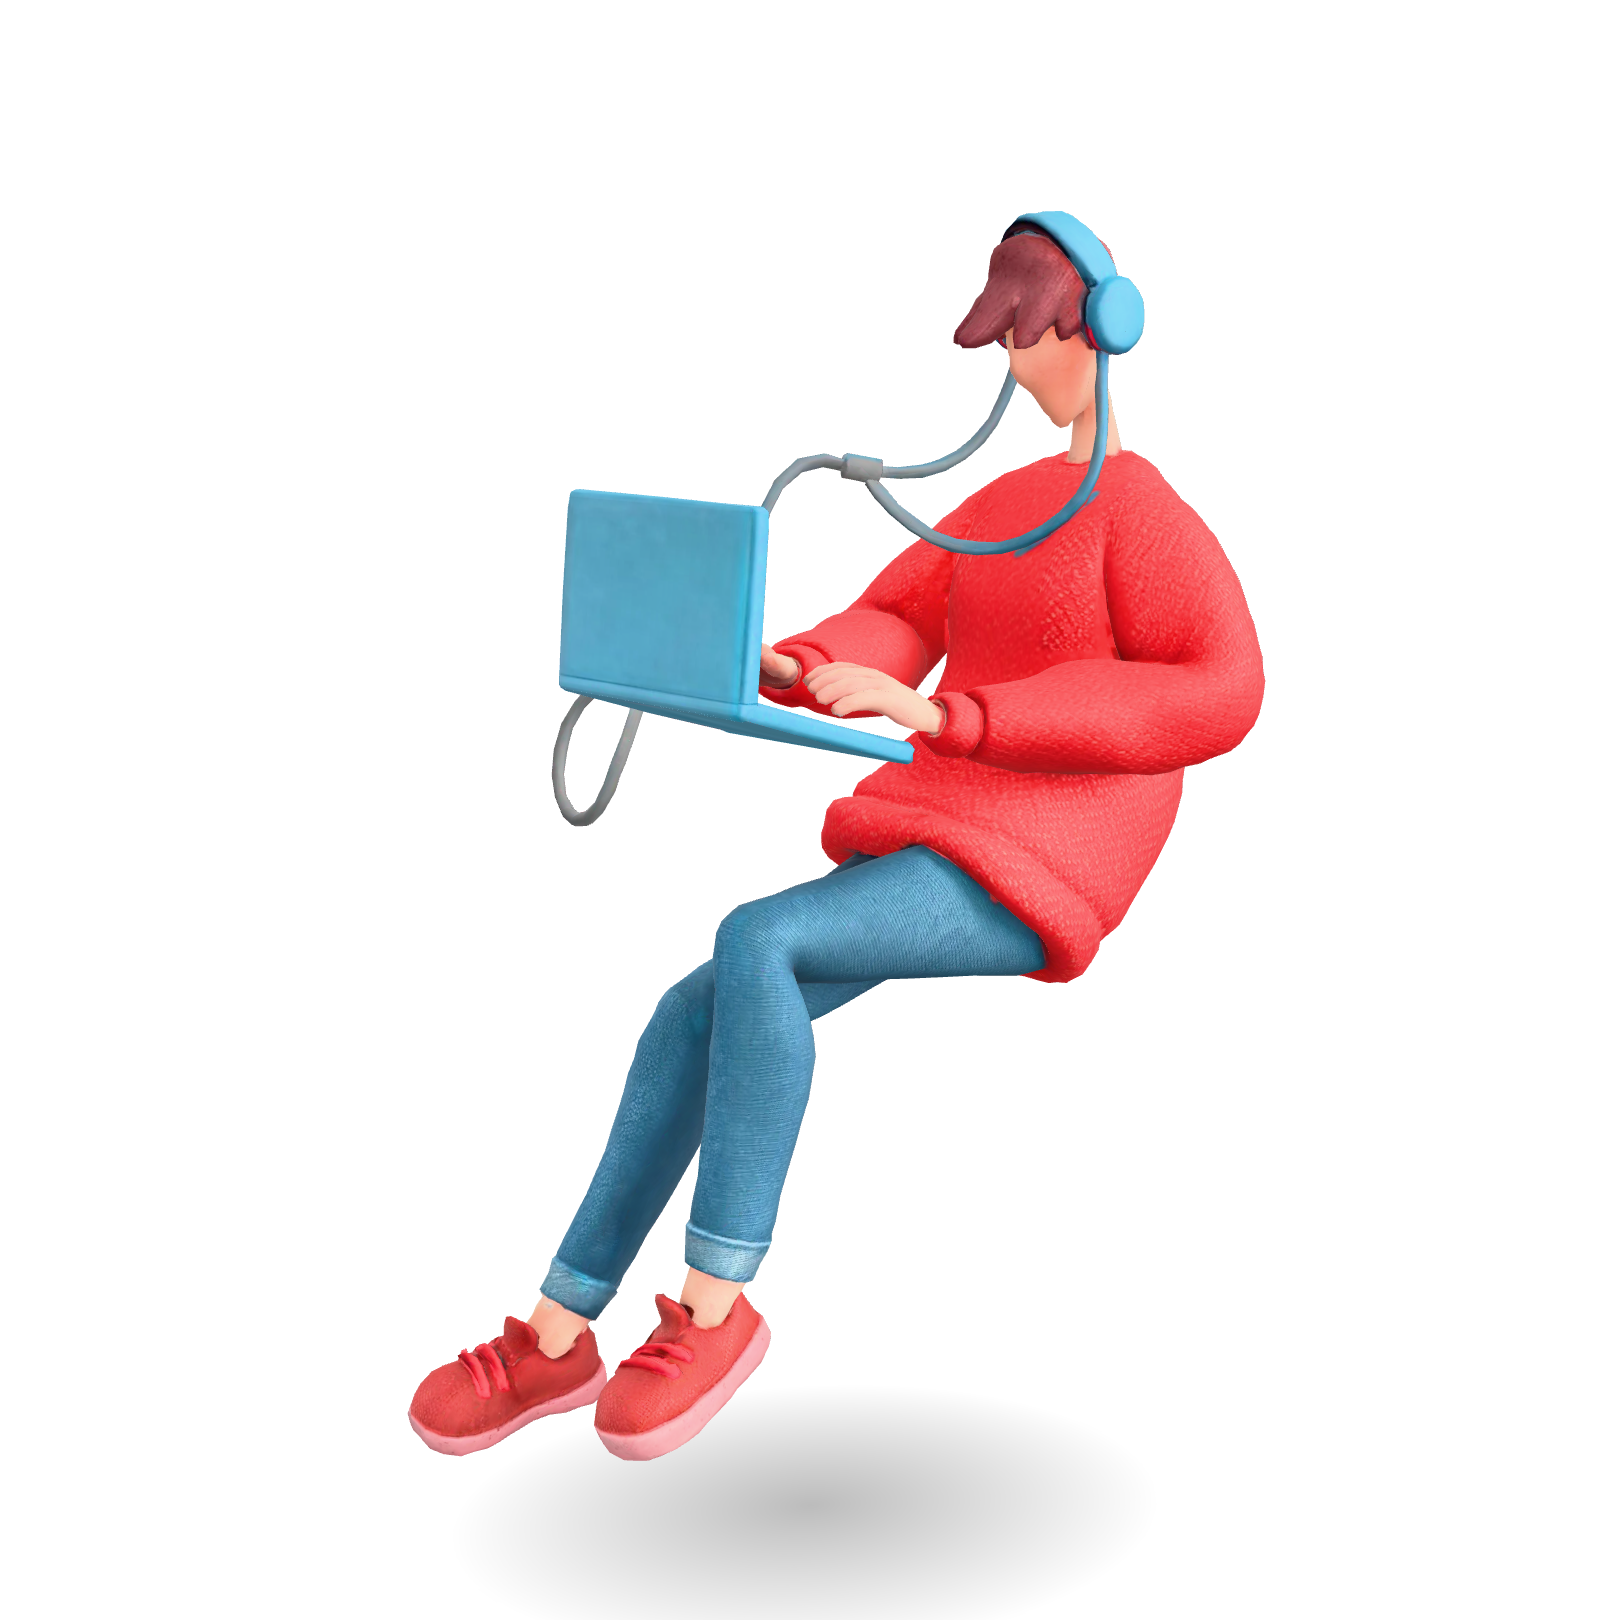
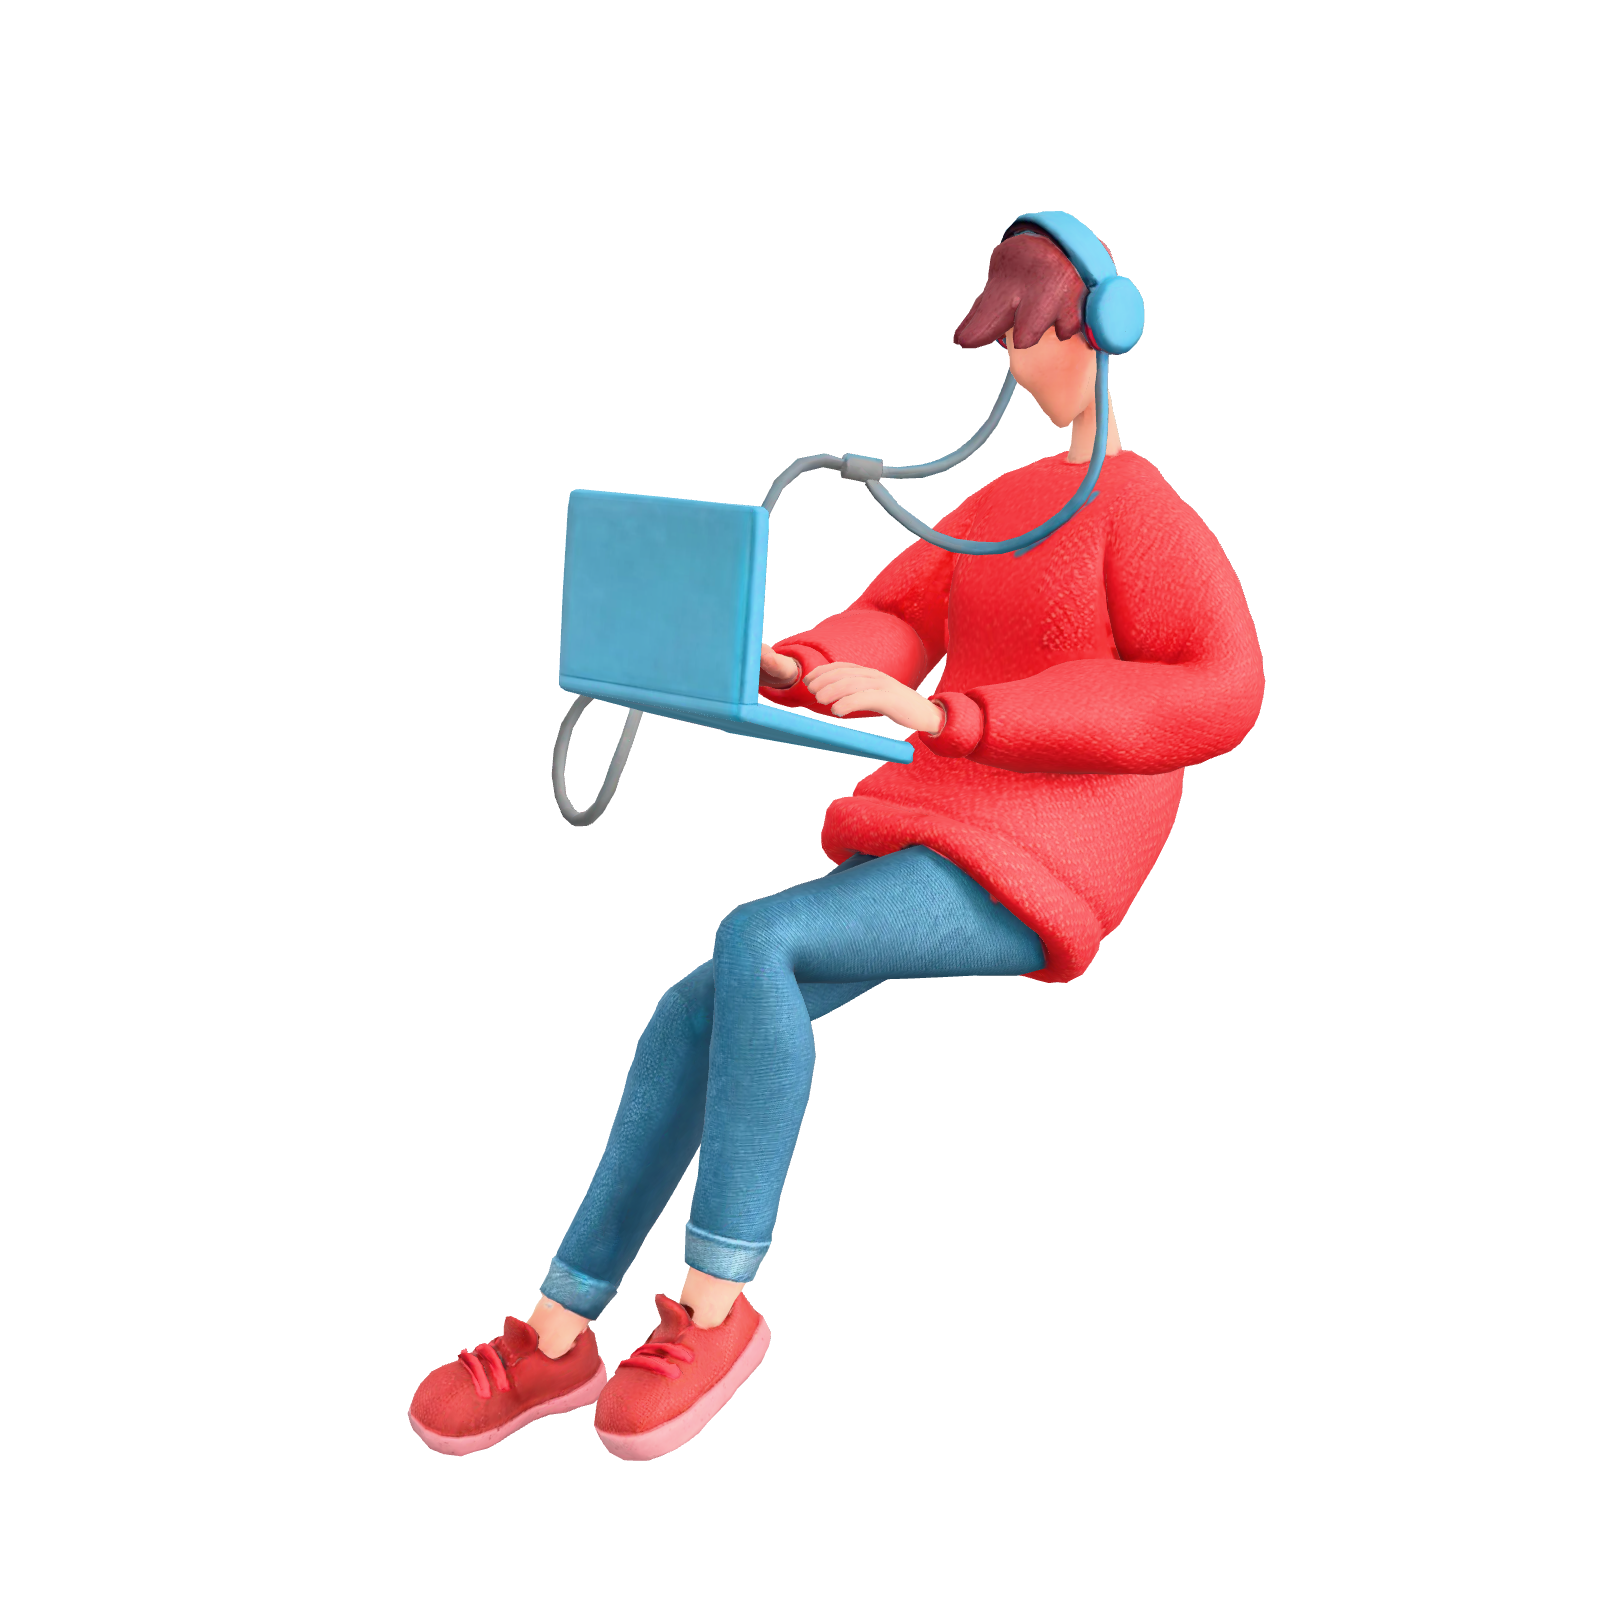
fix(hero): bayangan karakter 3D tidak lagi berganti saat refresh — dikeluarkan dari gambar awal & scene WebGL, jadi satu div gradien radial yang sama sejak HTML pertama dan digerakkan loop render (ikut melayang); dulu bayangan di gambar terkompres AVIF & diam lalu diganti bayangan WebGL yang terpoto

Changed region(s): [[0.3395, 0.8642, 0.6481, 0.9877]]

diff --git a/src/components/HeroModel3D.tsx b/src/components/HeroModel3D.tsx
@@ -9,10 +9,16 @@
 // PNG lama tetap jadi lapisan awal & LCP — three.js baru diunduh saat browser
 // idle, hanya di desktop, dilewati kalau hemat data. Render berhenti saat hero tak terlihat.
 // [hero-3d-tanpa-jeda-v1] Lapisan awal desktop = hero-character-3d.png, yaitu frame
-// pertama model ini sendiri (kamera, pose t=0, bayangan, 1620×1620) — dulu PNG lama
+// pertama model ini sendiri (kamera, pose t=0, TANPA bayangan, 1620×1620) — dulu PNG lama
 // beda sudut, jadi PNG harus pudar dulu baru 3D muncul (ada celah kosong ±0,7 dtk).
 // Sekarang kanvas memudar MASUK di atas gambar yang identik, gambar baru disembunyikan
 // sesudahnya. Kalau model/kamera/pencahayaan diubah, render ulang gambarnya.
+// [hero-bayangan-css-v1] Bayangan BUKAN bagian gambar maupun scene 3D: satu <div>
+// gradien radial yang sama sejak HTML pertama, digerakkan loop render (skala &
+// opasitas ikut melayang). Dulu bayangan ada di gambar (terkompres AVIF, diam) lalu
+// diganti bayangan WebGL yang bernapas & terpotong tepi kanvas — kelihatan "ganti".
+// Posisi/ukuran = proyeksi bidang bayangan lama lewat kamera ini (hitung ulang kalau
+// kamera/model berubah).
 import Image from "next/image";
 import React, { useEffect, useRef, useState } from "react";
 
@@ -22,12 +28,17 @@ const ORBIT_THETA = -35, ORBIT_PHI = 80, FOV = 30;
 const YAW_MAX = 26, PITCH_MAX = 12, BODY_YAW_MAX = 6; // derajat
 const DIAM_SETELAH_MS = 2500;
 const MELAYANG = 0.014;                                   // amplitudo naik-turun (satuan model; tinggi karakter ≈ 1)
-const BAYANGAN_JARAK = 0.12, BAYANGAN_OPASITAS = 0.32;    // celah kaki→lantai khayal
+const BAYANGAN_OPASITAS = 0.32;
+// Elips bayangan dalam % kotak (skala 1 = karakter di titik terendah).
+const BAYANGAN = { x: 50, y: 92.92, w: 45.8, h: 18.39 };
+const skalaBayangan = (k01: number) => 1 - 0.14 * k01;   // k01: 0 = terendah, 1 = tertinggi
+const opasitasBayangan = (k01: number) => 1 - 0.35 * k01;
 
 const rad = (d: number) => (d * Math.PI) / 180;
 
 export default function HeroModel3D({ alt }: { alt: string }) {
   const wadahRef = useRef<HTMLDivElement>(null);
+  const bayanganRef = useRef<HTMLDivElement>(null);
   const [siap, setSiap] = useState(false);
 
   useEffect(() => {
@@ -90,25 +101,6 @@ export default function HeroModel3D({ alt }: { alt: string }) {
       );
       camera.lookAt(pusat);
 
-      // Bayangan melayang: elips lembut (gradien radial di kanvas) di lantai khayal
-      // di bawah kaki. Tak ikut grup badan — ia yang bereaksi pada naik-turunnya karakter.
-      const tekstur = (() => {
-        const c = document.createElement("canvas"); c.width = c.height = 128;
-        const g = c.getContext("2d")!;
-        const gr = g.createRadialGradient(64, 64, 0, 64, 64, 64);
-        gr.addColorStop(0, "rgba(0,0,0,1)"); gr.addColorStop(0.45, "rgba(0,0,0,.55)"); gr.addColorStop(1, "rgba(0,0,0,0)");
-        g.fillStyle = gr; g.fillRect(0, 0, 128, 128);
-        const t = new THREE.CanvasTexture(c); t.colorSpace = THREE.SRGBColorSpace; return t;
-      })();
-      const matBayangan = new THREE.MeshBasicMaterial({ map: tekstur, transparent: true, depthWrite: false, toneMapped: false, opacity: BAYANGAN_OPASITAS });
-      const bayangan = new THREE.Mesh(new THREE.PlaneGeometry(1, 1), matBayangan);
-      bayangan.rotation.x = -Math.PI / 2;
-      const ukuranKotak = kotak.getSize(new THREE.Vector3());
-      bayangan.scale.set(ukuranKotak.x * 0.95, ukuranKotak.z * 1.3, 1);
-      bayangan.position.set(pusat.x, kotak.min.y - BAYANGAN_JARAK, (kotak.min.z + kotak.max.z) / 2);
-      bayangan.renderOrder = -1;
-      scene.add(bayangan);
-      const skalaBayangan = bayangan.scale.clone();
 
       // Rotasi kepala dihitung di ruang model lalu dikonversi ke ruang lokal tulang:
       // lokal = pInv · delta · p · q0 — tak bergantung orientasi sumbu tulang hasil ekspor.
@@ -169,8 +161,11 @@ export default function HeroModel3D({ alt }: { alt: string }) {
         const naik = diam ? 0 : Math.sin(fase / 650); // -1..1
         badan.position.y = naik * MELAYANG;
         const k01 = (naik + 1) / 2;
-        bayangan.scale.set(skalaBayangan.x * (1 - 0.14 * k01), skalaBayangan.y * (1 - 0.14 * k01), 1);
-        matBayangan.opacity = BAYANGAN_OPASITAS * (1 - 0.35 * k01);
+        const el = bayanganRef.current;
+        if (el) {
+          el.style.transform = `translate(-50%, -50%) scale(${skalaBayangan(k01)})`;
+          el.style.opacity = String(opasitasBayangan(k01));
+        }
         if (kepala && q0) {
           qYaw.setFromAxisAngle(sumbuYaw, rad(cx * YAW_MAX));
           qPitch.setFromAxisAngle(sumbuPitch, rad(-cy * PITCH_MAX));
@@ -222,7 +217,6 @@ export default function HeroModel3D({ alt }: { alt: string }) {
             mat.dispose();
           });
         });
-        bayangan.geometry.dispose(); matBayangan.dispose(); tekstur.dispose();
         envTex.dispose(); pmrem.dispose(); renderer.dispose();
         kanvas.remove();
       };
@@ -241,10 +235,22 @@ export default function HeroModel3D({ alt }: { alt: string }) {
 
   return (
     <div ref={wadahRef} className="relative w-full h-full">
+      {/* [hero-bayangan-css-v1] Keadaan awal = fase 0 (k01 0,5), sama dgn frame pertama. */}
+      <div
+        ref={bayanganRef}
+        aria-hidden="true"
+        className="pointer-events-none absolute"
+        style={{
+          left: `${BAYANGAN.x}%`, top: `${BAYANGAN.y}%`, width: `${BAYANGAN.w}%`, height: `${BAYANGAN.h}%`,
+          transform: `translate(-50%, -50%) scale(${skalaBayangan(0.5)})`,
+          opacity: opasitasBayangan(0.5),
+          background: `radial-gradient(closest-side, rgba(0,0,0,${BAYANGAN_OPASITAS}) 0%, rgba(0,0,0,${BAYANGAN_OPASITAS * 0.55}) 45%, rgba(0,0,0,0) 100%)`,
+        }}
+      />
       <Image
         src="/images/hero-character-3d.png" alt={siap ? "" : alt} aria-hidden={siap || undefined}
         width={1620} height={1620} priority sizes="(min-width: 1024px) 810px, 0px"
-        className={`w-full h-full object-contain ${siap ? "invisible" : ""}`}
+        className={`relative w-full h-full object-contain ${siap ? "invisible" : ""}`}
       />
       {siap && <span className="sr-only">{alt}</span>}
     </div>
